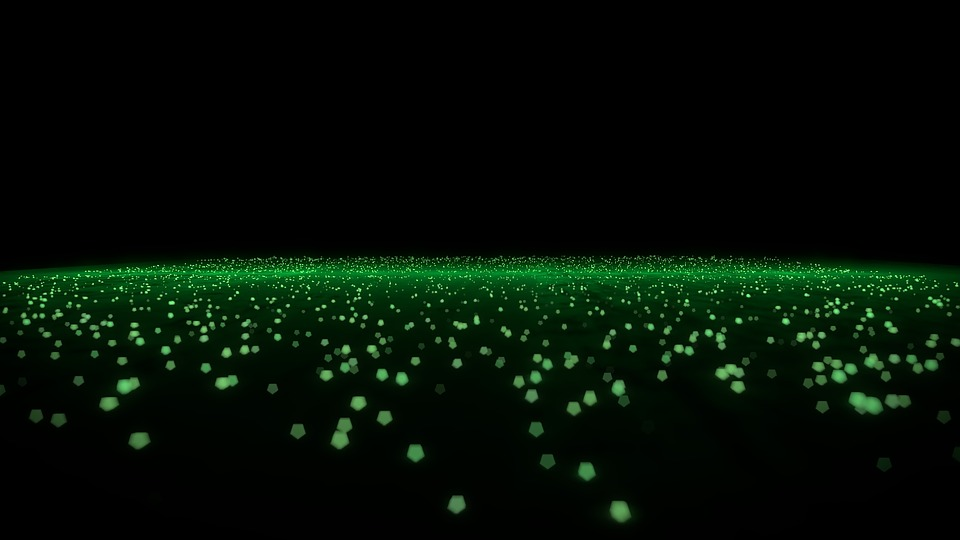
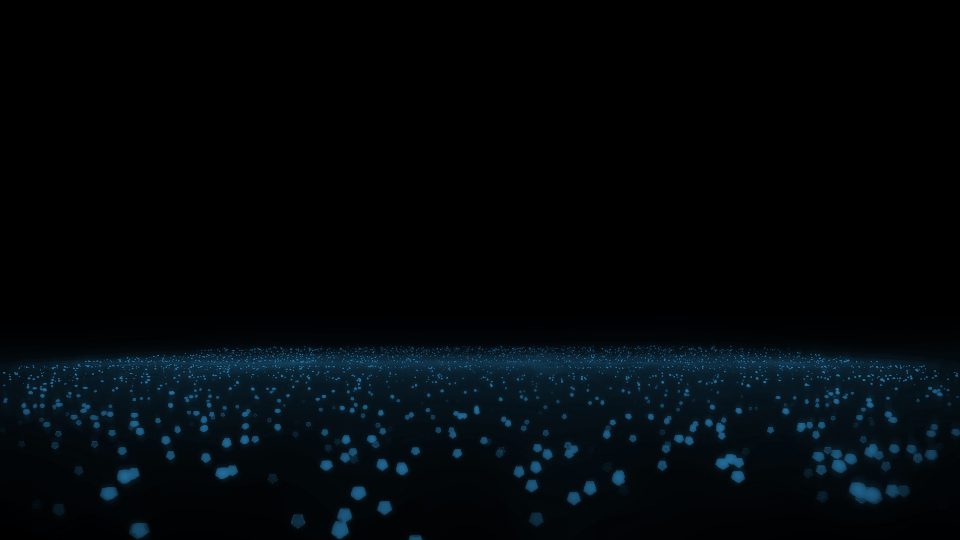
Blue login and replaced editor with fiddle in logged in mode

diff --git a/src/Spann/Spann/ui/libs/JJS/dist/build.js b/src/Spann/Spann/ui/libs/JJS/dist/build.js
@@ -1,4 +1,4 @@
-/*! spann - v1.0.0 - 2016-11-17 */
+/*! spann - v1.0.0 - 2016-11-24 */
 function BaseComponent(parent, screen) {
   var object = $ui.BaseExtension(parent, screen);
   object.component.addClass('ui-base-component');
@@ -1920,13 +1920,6 @@ function Panel(parent, screen) {
       } else {
         bottomDock.removeClass('has-bottom-dock');
       }
-    }
-  });
-
-    Object.defineProperty(object.model, "background", {
-    set: function (value) {
-      console.log("XXXXXXXXXXXXXXXXXXXXXXXXX bg XXXXXXXXXXXXXXXXXXXXXXXXX");
-      //object.uiObject.model.backgroundImage = value;
     }
   });
 

diff --git a/src/Spann/Spann/ui/application/screens/Login/screen_login.js b/src/Spann/Spann/ui/application/screens/Login/screen_login.js
@@ -130,7 +130,7 @@ define([
 
     screen.registerEvent('show', function () {
       console.log(this);
-      screen.uiObject.model.backgroundImage = '/ui/application/resources/login5.jpg';
+      screen.uiObject.model.backgroundImage = '/ui/application/resources/login4.jpg';
 
       var components = screen.model;
 

diff --git a/src/Spann/Spann/ui/application/selectionFrame.js b/src/Spann/Spann/ui/application/selectionFrame.js
@@ -22,7 +22,7 @@ define([
           {
             name: "Editor",
             icon: "fa-edit",
-            target: "App/screens/Home/screenEditor"
+            target: "App/screens/Fiddle/screen_fiddle"
           },
           {
             name: "Console",
